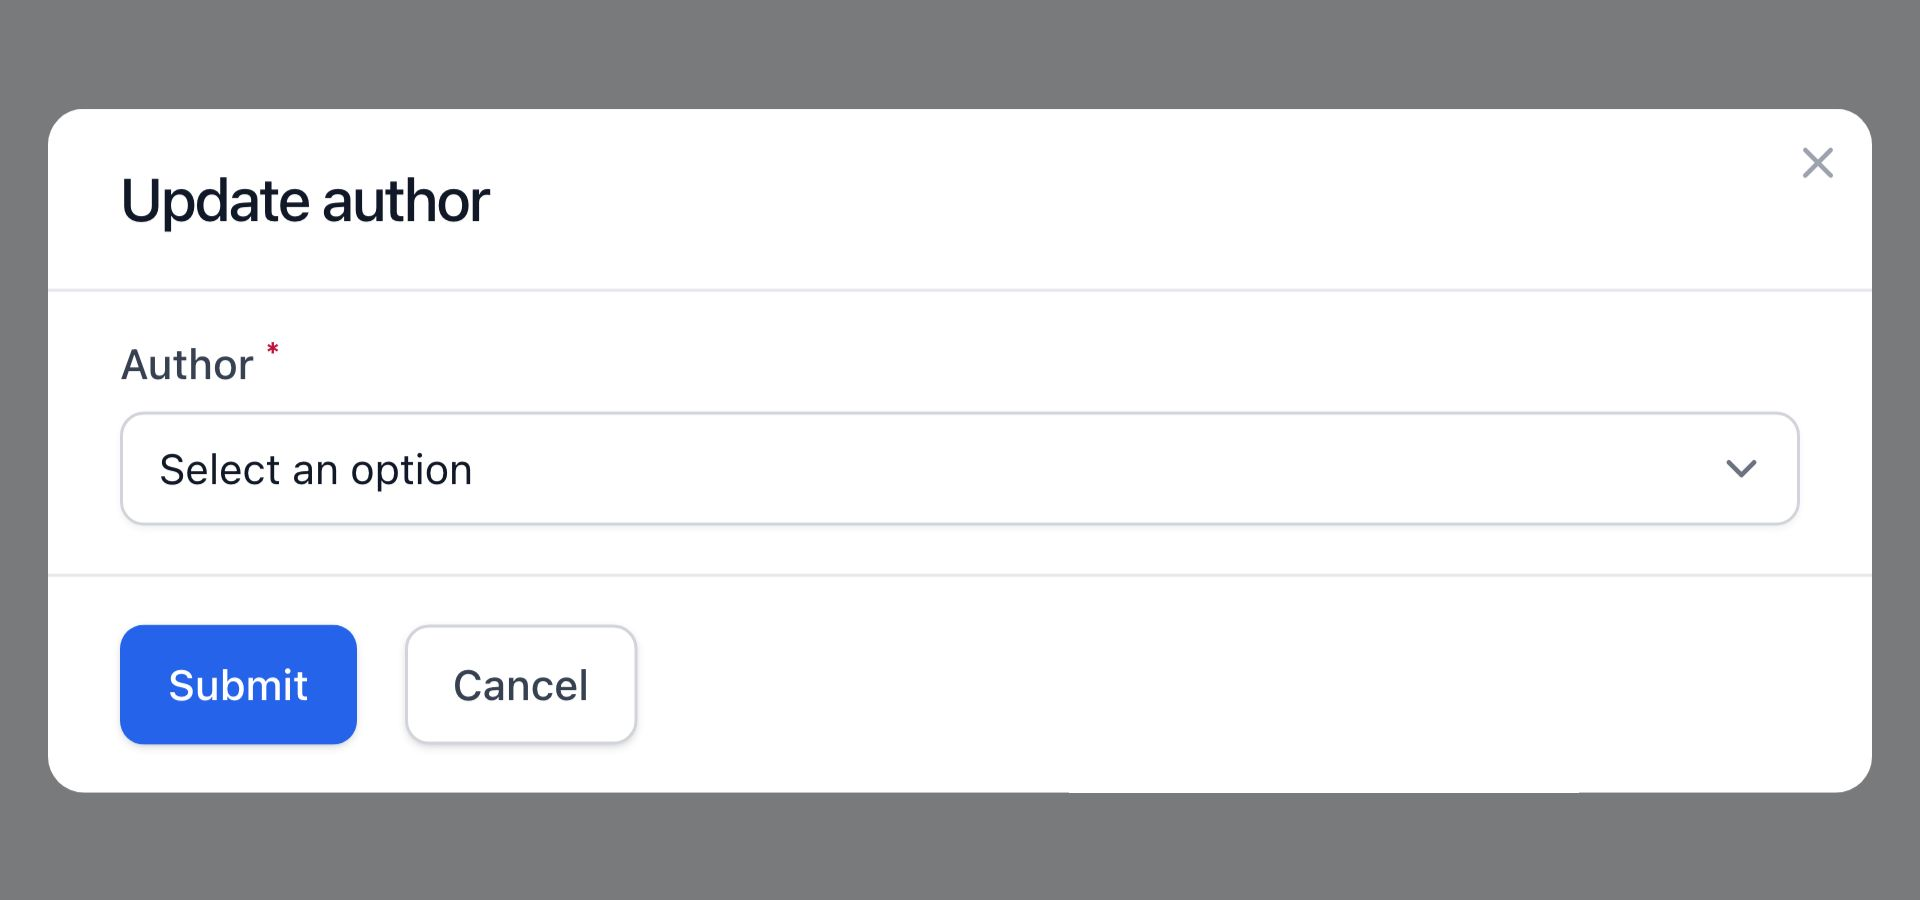
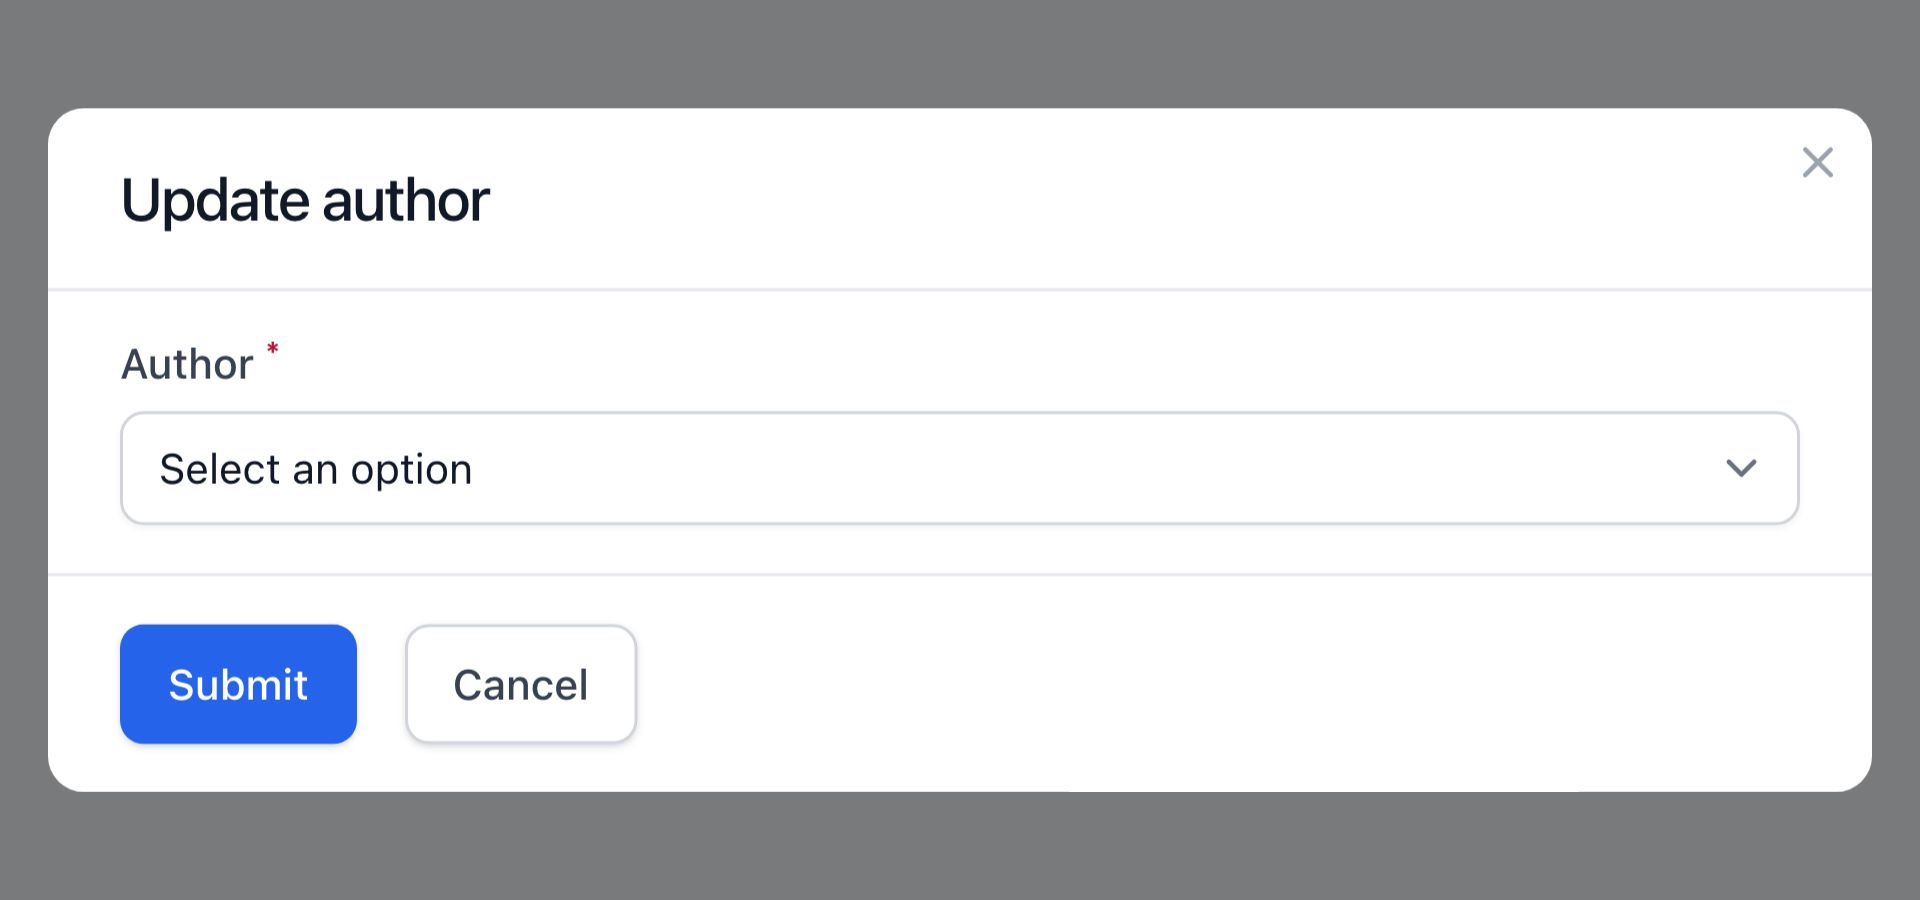
wip

diff --git a/docs-assets/screenshots/schema.js b/docs-assets/screenshots/schema.js
@@ -2,30 +2,65 @@ export default {
     'actions/trigger-button/button': {
         url: 'actions',
         selector: '#buttonAction',
+        viewport: {
+            width: 1920,
+            height: 720,
+            deviceScaleFactor: 3,
+        },
     },
     'actions/trigger-button/link': {
         url: 'actions',
         selector: '#linkAction',
+        viewport: {
+            width: 1920,
+            height: 720,
+            deviceScaleFactor: 3,
+        },
     },
     'actions/trigger-button/icon-button': {
         url: 'actions',
         selector: '#iconButtonAction',
+        viewport: {
+            width: 1920,
+            height: 720,
+            deviceScaleFactor: 3,
+        },
     },
     'actions/trigger-button/danger': {
         url: 'actions',
         selector: '#dangerAction',
+        viewport: {
+            width: 1920,
+            height: 720,
+            deviceScaleFactor: 3,
+        },
     },
     'actions/trigger-button/large': {
         url: 'actions',
         selector: '#largeAction',
+        viewport: {
+            width: 1920,
+            height: 720,
+            deviceScaleFactor: 3,
+        },
     },
     'actions/trigger-button/icon': {
         url: 'actions',
         selector: '#iconAction',
+        viewport: {
+            width: 1920,
+            height: 720,
+            deviceScaleFactor: 3,
+        },
     },
     'actions/trigger-button/icon-after': {
         url: 'actions',
         selector: '#iconAfterAction',
+        viewport: {
+            width: 1920,
+            height: 720,
+            deviceScaleFactor: 3,
+        },
     },
     'actions/modal/confirmation': {
         url: 'actions',
